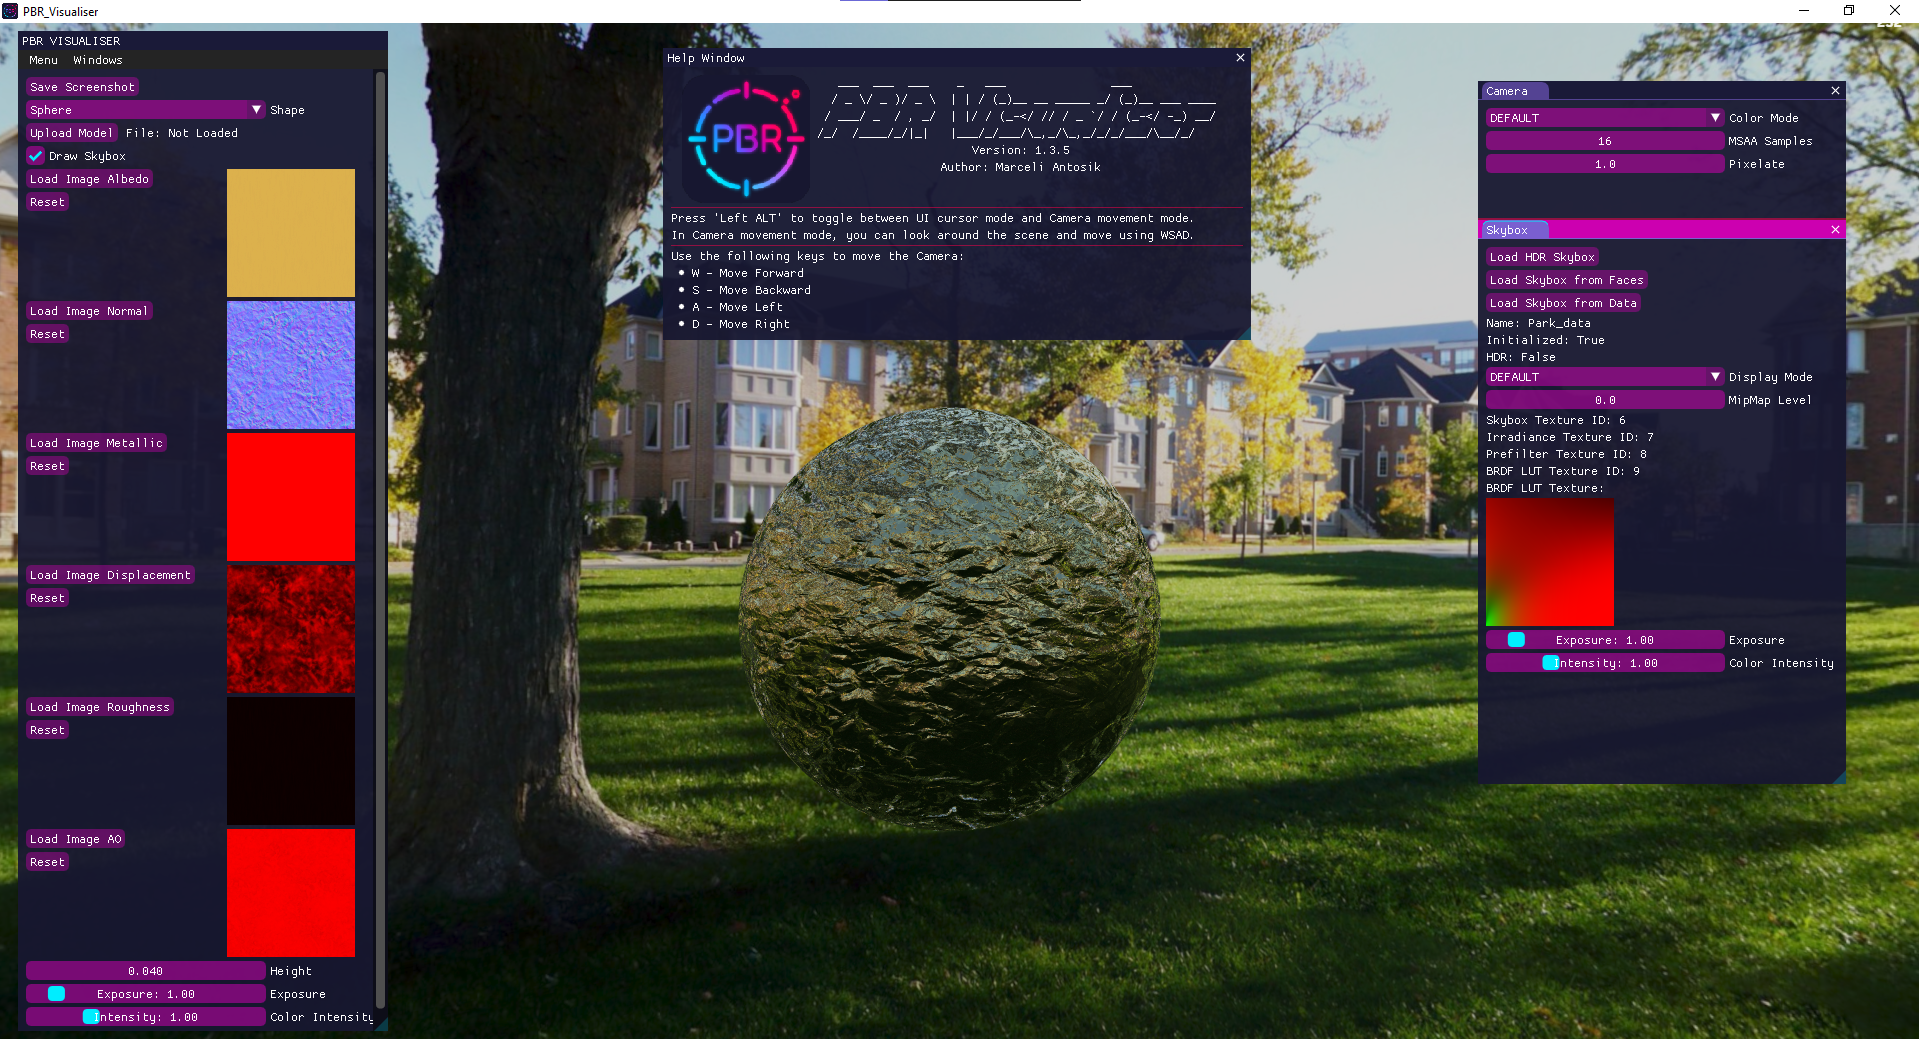
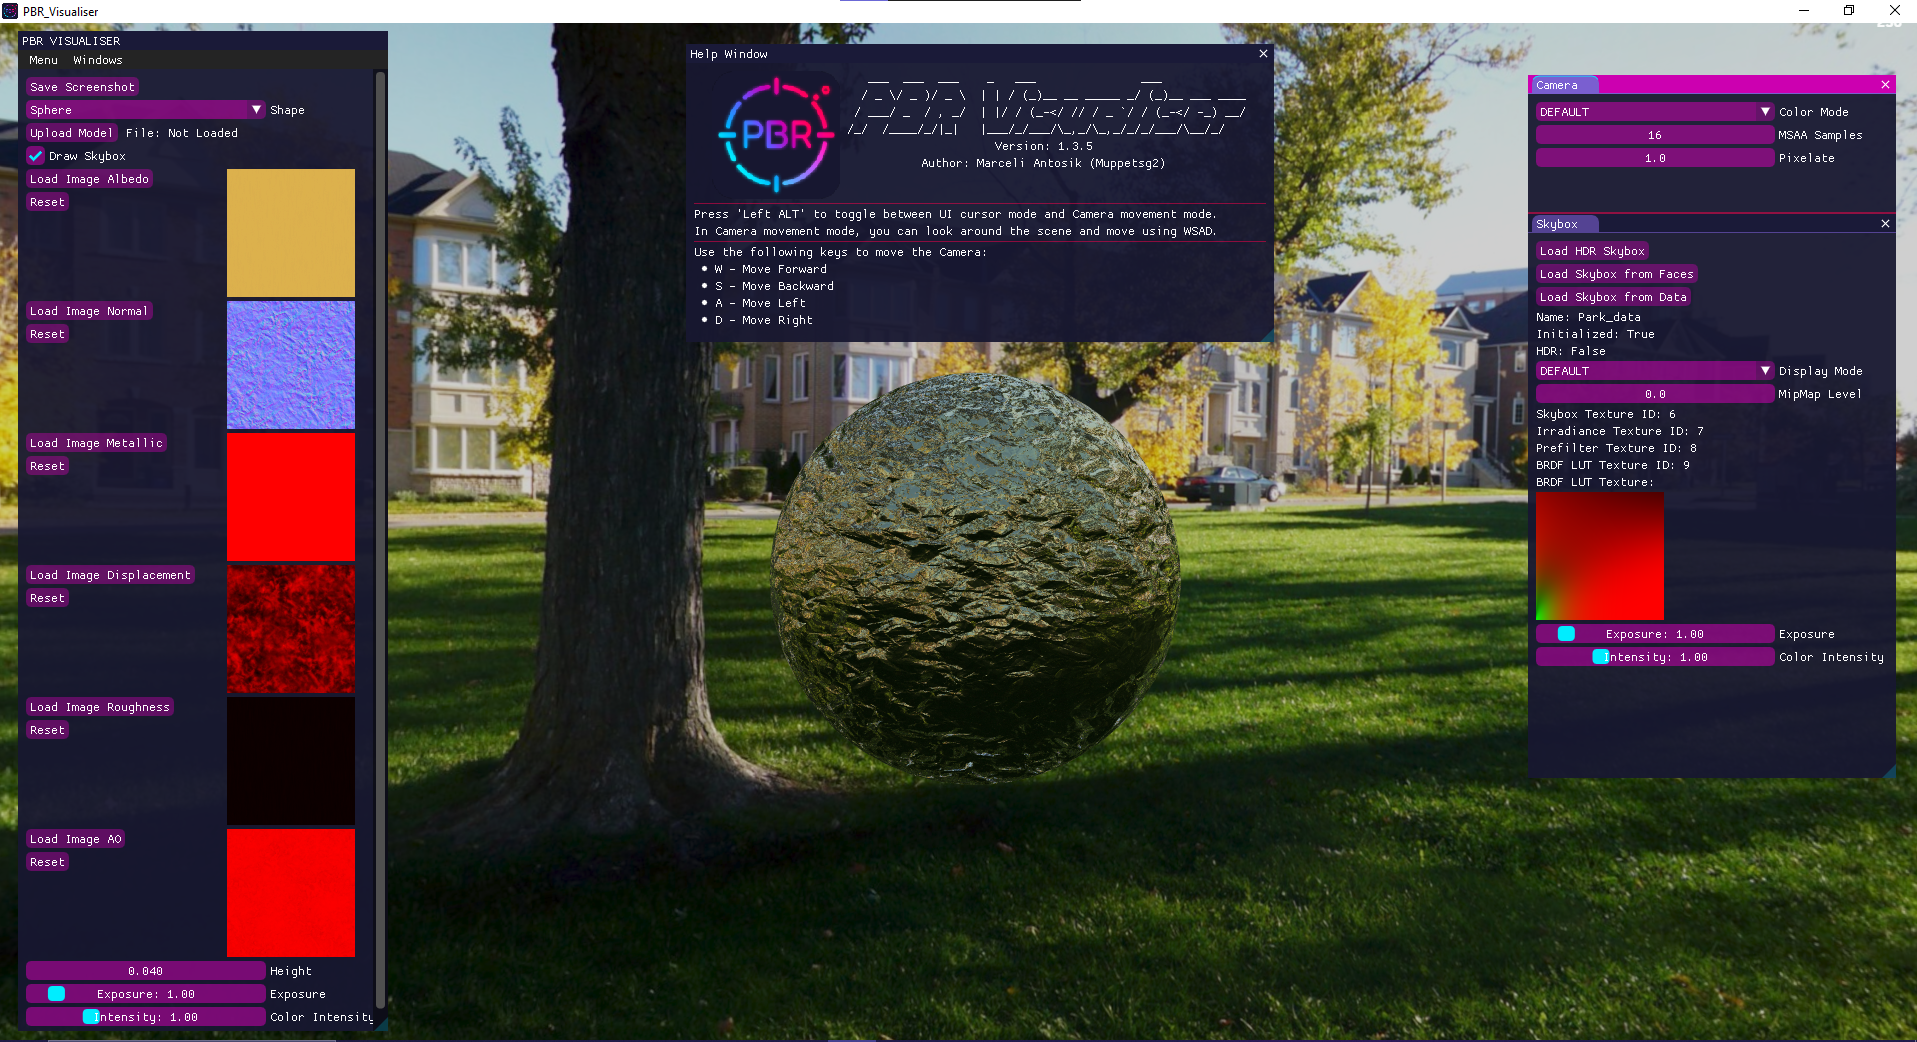
Readme update
- Updated Readme
- Updated name of author

diff --git a/src/main.cpp b/src/main.cpp
@@ -5,8 +5,8 @@
 //  /_/  /____/_/|_|   |___/_/___/\_,_/\_,_/_/_/___/\__/_/   
 //
 // Version: 1.3.5
-// Author: Marceli Antosik
-// Last Update: 03.03.2025
+// Author: Marceli Antosik (Muppetsg2)
+// Last Update: 04.03.2025
 
 extern "C" {
     _declspec(dllexport) unsigned long NvOptimusEnablement = 1;
@@ -507,7 +507,7 @@ void drawBanner()
     spdlog::info("   / ___/ _  / , _/  | |/ / (_-</ // / _ `/ / (_-</ -_) __/  ");
     spdlog::info("  /_/  /____/_/|_|   |___/_/___/\\_,_/\\_,_/_/_/___/\\__/_/  \n");
     spdlog::info("                       Version: {}", PBR_VISUALISER_VERSION_STR);
-    spdlog::info("                   Author: Marceli Antosik");
+    spdlog::info("             Author: Marceli Antosik (Muppetsg2)");
     spdlog::info("                   Last Update: {}", PBR_VISUALISER_LAST_UPDATE);
 
 #if WINDOW_APP && !_DEBUG
@@ -1155,7 +1155,7 @@ void drawHelp(bool* open)
     float textX = (windowSize.x - textWidth + iconSize) * 0.5f;
     ImGui::SetCursorPosX(textX);
     ImGui::Text(text.c_str());
-    text = std::string("Author: Marceli Antosik");
+    text = std::string("Author: Marceli Antosik (Muppetsg2)");
     textWidth = ImGui::CalcTextSize(text.c_str()).x;
     textX = (windowSize.x - textWidth + iconSize) * 0.5f;
     ImGui::SetCursorPosX(textX);

diff --git a/src/version.h b/src/version.h
@@ -4,7 +4,7 @@
 #define PBR_VISUALISER_VER_MINOR 3
 #define PBR_VISUALISER_VER_PATCH 5
 
-#define PBR_VISUALISER_LAST_UPDATE "03.03.2025"
+#define PBR_VISUALISER_LAST_UPDATE "04.03.2025"
 
 #define PBR_VISUALISER_TO_STRING_VERSION(major, minor, patch) std::format("{}.{}.{}", major, minor, patch)
 #define PBR_VISUALISER_TO_INT_VERSION(major, minor, patch) (major * 10000 + minor * 100 + patch)

diff --git a/README.md b/README.md
@@ -1,71 +1,79 @@
 <div align='center'>
    <img src="git_images/icon.png" alt="Logo" width="150" align="center"/>
-   <h1>
-   PBR Visualiser 1.3.5
-   </h1>
+   
+  <div id="toc">
+    <ul style="list-style: none;">
+      <summary>
+        <h1>PBR Visualiser 1.3.5</h1>
+      </summary>
+    </ul>
+  </div>
 </div>
 
 ## 📌 Description
-**PBR Visualiser** is an application for visualizing PBR materials in an OpenGL environment. The application has two configurations: **windowed (GUI)** and **console (CLI)**. In the GUI configuration, it supports rendering 3D models with different PBR materials and allows interaction with the camera and lighting settings. In the console configuration, it supports rendering a 2D image of a PBR material in different resolutions and lighting settings.
+**PBR Visualiser** is an application for visualizing **PBR materials** in an **OpenGL** environment. The application supports two configurations:
+<br/>
+🎨 **Windowed (GUI)** – for rendering **3D models** with interactive camera and lighting settings.
+<br/>
+🖥 **Console (CLI)** – for rendering **2D images** of PBR materials with customizable resolutions and lighting.
 
----
+## 📋 Table of Contents
+
+- [🌐 Acknowledgments](#-acknowledgments)
+- [📚 Used Libraries](#-used-libraries)
+- [🎨 Windowed Mode (GUI)](#-windowed-mode-gui)
+- [🖥 Console Mode (CLI)](#%EF%B8%8F-console-mode-cli)
+- [⚙ Requirements](#%EF%B8%8F-requirements)
+- [✨ Authors](#-authors)
+- [📜 License](#-license)
 
 ## 🌐 Acknowledgments
-- Sample materials used in the application have been sourced from ambient.cg.
-- Skyboxes used in the application are sourced from:
-    - polyhaven.com (All HDR files)
-    - www.humus.name (Park)
-    - learnopengl.com (Tutorial)
-
----
+- 📦 **Sample materials**: [ambient.cg](https://ambient.cg/)
+- 🌅 **Skyboxes**:
+    - HDR files: [polyhaven.com](https://polyhaven.com/)
+    - Park: [www.humus.name](http://www.humus.name/)
+    - Tutorial: [learnopengl.com](https://learnopengl.com/)
 
 ## 📚 Used Libraries
-- **OpenGL** - for rendering content
-- **ImGui** - for handling the user interface in the windowed configuration
-- **GLM** - for mathematical operations
-- **GLI** - for handling DDS files
-- **GLFW** - for handling input devices and the window
-- **spdlog** - for logging data to the console
-- **cgltf** - for loading GLTF and GLB objects
-- **tiny_obj_loader** - for loading OBJ objects
-- **stbi_image** - for loading HDR, JPG, and PNG images
-- **stbi_image_write** - for saving generated images
-- **tinyfiledialogs** - for handling dialog windows
+- 🎮 **OpenGL** - rendering engine
+- 🖱 **ImGui** - UI handling (GUI mode)
+- 📐 **GLM** - mathematical operations
+- 🖼 **GLI** - DDS file support
+- 🏞 **GLFW** - window & input handling
+- 📜 **spdlog** - logging
+- 📁 **cgltf** - loading GLTF/GLB objects
+- 📦 **tiny_obj_loader** - OBJ file support
+- 🖼 **stbi_image** - image loading (HDR, JPG, PNG)
+- 💾 **stbi_image_write** - image saving
+- 🗂 **tinyfiledialogs** - dialog windows
 
 ## 🎨 Windowed Mode (GUI)
-- **User Interface** based on **ImGui**  
-- **3D Shape Selection** from:
-  - 🔳 Cube
+- 🖥 **User Interface**: **ImGui**  
+- 🔳 **3D Shape Selection** from:
+  - 🟦 Cube
   - 🟡 Sphere
-  - 🔶 Plane (with orientation change option)
-- **3D Model Import** from files:
-  - OBJ
-  - GLTF / GLB
-- **PBR Texture Support**:
-  - 🎨 Albedo (RGB)
-  - 🌀 Normal (RGB)
-  - 🔩 Metalness (Grayscale)
-  - ⛰ Displacement (Grayscale)
-  - ✨ Roughness (Grayscale)
-  - 🌑 AO (Grayscale)
-- **Skybox Change**:
-  - HDR files
-  - 6 JPG/PNG files
-  - Pre-generated auxiliary data (for faster loading)
-- **Lighting Configuration**:
-  - Exposure and intensity of the skybox
-  - Exposure and intensity of the PBR material
-- **Camera Filters**:
+  - 🔶 Plane (adjustable orientation)
+- 📂 **3D Model Import**: OBJ, GLTF, GLB
+- 🖌 **PBR Texture Support**:
+  - 🎨 **Albedo** (RGB)
+  - 🌀 **Normal** (RGB)
+  - 🔩 **Metalness** (Grayscale)
+  - ⛰ **Displacement** (Grayscale)
+  - ✨ **Roughness** (Grayscale)
+  - 🌑 **AO** (Grayscale)
+- 🌅 **Skybox Selection**: HDR, JPG, PNG
+- 💡 **Lighting Configuration**: Exposure & intensity
+- 🎥 **Camera Filters**:
   - 🔷 Pixelation
   - ⚫ Grayscale
   - 🔀 Negative
   - ⚫🔀 Grayscale Negative
-- **MSAA** up to 16 samples
-- **Camera Controls**:
-  - 🖱 **Mouse** – rotate camera (after press `Left Alt`)
-  - ⌨ **WSAD** – move camera
-- **Save Screenshots of the view**
-- **Dialog Windows** handled via **tinyfiledialogs**
+- 🎮 **MSAA** (up to 16 samples)
+- 🎛 **Camera Controls**:
+  - 🖱 **Mouse** – rotate (after press `Left Alt`)
+  - ⌨ **WSAD** – move (after press `Left Alt`)
+- 📸 **Save Screenshots**
+- 🗂 **Dialog Windows** (via **tinyfiledialogs**)
 
 📷 **Screenshot of the application:**
 ![Screenshot_1](git_images/screenshot1.png)
@@ -73,68 +81,62 @@
 📷 **Screenshot taken in application:**
 ![Screenshot_2](git_images/screenshot2.png)
 
----
-
 ## 🖥 Console Mode (CLI)
 The application can run interactively (with sequential questions) or by passing parameters via the command line.
 
-#### ▶ Usage:
+### ▶ Usage:
 ```
 PBR_Visualiser.exe ([-h] | [-I] | [-v] [-f <albedo_path> <normal_path> ...] [-n <output_name>] [-d <directory_path>] [-p <position>] [-s <skybox>] [-r <resolution>] [-e <exposure_value>] [-i <color_intensity>])
 ```
 
-#### ⚙ Options:
-- `-h` → Displays help.
-- `-I` → Interactive mode (includes the provided parameters in the first iteration).
-- `-v` → Detailed information in the console.
-- `-f <image_path>` → Paths to a maximum of 6 PBR images.
-- `-n <output_name>` → Output file name (`PBR_Image.png`).
-- `-d <directory_path>` → Save folder (by default it saves to the executable file folder).
-- `-p <position>` → Plane position (`top`, `bottom`, `front`, `back`, `right`, `left`).
-- `-s <skybox>` → Choose a skybox (`park`, `hill`, `photostudio`, `bathroom`, `moonless_golf`, `snowy_field`, `venice_sunset`, `satara_night`, `golden_bay`).
-- `-r <resolution>` → Resolution (`r128`, `r256`, `r512`, `r1k`, `r2k`, `r4k`).
-- `-e <exposure_value>` → Exposure (`0 - 11`, domyślnie `1.0`).
-- `-i <color_intensity>` → Color intensity (`0 - 4`, domyślnie `1.0`).
+### ⚙ Options:
+- 🆘 `-h` → Displays **help**
+- 🏗 `-I` → **Interactive mode** (includes given parameters)
+- 📜 `-v` → **Verbose mode** (detailed logs)
+- 🖼 `-f <image_path>` → Paths to max **6 PBR textures**
+- 💾 `-n <output_name>` → **Output filename** (`PBR_Image.png`)
+- 📂 `-d <directory_path>` → **Save location**
+- 🏗 `-p <position>` → **Plane position** (`top`, `bottom`, `front`, `back`, `right`, `left`)
+- 🌅 `-s <skybox>` → **Skybox selection** (`park`, `hill`, `photostudio`, `bathroom`, `moonless_golf`, `snowy_field`, `venice_sunset`, `satara_night`, `golden_bay`)
+- 🖥 `-r <resolution>` → **Image resolution** (`r128`, `r256`, `r512`, `r1k`, `r2k`, `r4k`)
+- ☀ `-e <exposure_value>` → **Exposure** (`0 - 11`, default `1.0`)
+- 🎨 `-i <color_intensity>` → **Color intensity** (`0 - 4`, default `1.0`)
 
-#### 📝 Example execution:
+### 📝 Example Execution:
 ```
 PBR_Visualiser.exe -p right -f .\res\textures\Rock051_2K-PNG\Color.png .\res\textures\Rock051_2K-PNG\Normal.png .\res\textures\Rock051_2K-PNG\Metalness.png .\res\textures\Rock051_2K-PNG\Displacement.png .\res\textures\Rock051_2K-PNG\Roughness.png .\res\textures\Rock051_2K-PNG\AmbientOcclusion.png -n output -s golden_bay -r r128k -e 2.0 -i 1.0
 ```
 
-For more example use cases, you can refer to the `Examples.md` file, where additional command-line executions and scenarios are provided.
+For more examples, see [Examples.md](./Examples.md).
 
 📷 **Example of a generated image:**
-<br>
 <div align="center">
   <img src="git_images/output.png" alt="Output Image" width="300"/>
 </div>
 
----
-
 ## ⚙ Requirements
-✅ **For building:**
-- OpenSSL
-- CMake >= 3.21
-- Git
-- OpenGL >= 4.5
+✅ **For Building:**
+- 🔑 OpenSSL
+- 🛠 CMake >= 3.21
+- 🖥 Git
+- 🎮 OpenGL >= 4.5
 
-✅ **For running:**
-- OpenGL >= 4.5
-- MSVCP140.dll
-- VCRUNTIME140.dll
-- VCRUNTIME140_1.dll
-
----
-
-## 📜 License
-Project available under the **MIT** license.
-
----
+✅ **For Running:**
+- 🎮 OpenGL >= 4.5
+- 📜 MSVCP140.dll
+- 📜 VCRUNTIME140.dll
+- 📜 VCRUNTIME140_1.dll
 
 ## ✨ Authors
-👤 **Marceli Antosik**
+👤 **Marceli Antosik (Muppetsg2)**
 
 💡 If you have any questions or suggestions, feel free to contact me!
+
+
+## 📜 License
+📝 This project is **MIT Licensed**.
+
+See the [LICENSE](./LICENSE) file for more details.
 
 ---
 

diff --git a/Examples.md b/Examples.md
@@ -1,6 +1,6 @@
-# PBR Visualiser Console - Examples
+# 🖥 PBR Visualiser Console - Examples
 
-## 1. Generating a PBR image with 5 maps in the correct order
+## 1⃣ Generating a PBR image with 5 maps in the correct order
 ```bash
 PBR_Visualiser.exe -f
     .\res\textures\Metal049A_2K-PNG\Metal049A_2K-PNG_Color.png
@@ -10,7 +10,7 @@ PBR_Visualiser.exe -f
     .\res\textures\Metal049A_2K-PNG\Metal049A_2K-PNG_Roughness.png
 ```
 
-## 2. Generating a PBR image with 6 maps (missing Metalness)
+## 2⃣ Generating a PBR image with 6 maps (missing Metalness)
 ```bash
 PBR_Visualiser.exe -f
     .\res\textures\RoofingTiles013A_2K-PNG\RoofingTiles013A_2K-PNG_Color.png
@@ -21,7 +21,7 @@ PBR_Visualiser.exe -f
     .\res\textures\RoofingTiles013A_2K-PNG\RoofingTiles013A_2K-PNG_AmbientOcclusion.png
 ```
 
-## 3. Generating a PBR image with additional console information
+## 3⃣ Generating a PBR image with additional console information
 ```bash
 PBR_Visualiser.exe -v -f
     .\res\textures\Rock051_2K-PNG\Rock051_2K-PNG_Color.png
@@ -31,7 +31,7 @@ PBR_Visualiser.exe -v -f
     .\res\textures\Rock051_2K-PNG\Rock051_2K-PNG_Roughness.png
 ```
 
-## 4. Generating a PBR image with the plane position set to `right`
+## 4⃣ Generating a PBR image with the plane position set to `right`
 ```bash
 PBR_Visualiser.exe -v -p right -f
     .\res\textures\Rock051_2K-PNG\Rock051_2K-PNG_Color.png
@@ -41,14 +41,14 @@ PBR_Visualiser.exe -v -p right -f
     .\res\textures\Rock051_2K-PNG\Rock051_2K-PNG_Roughness.png
 ```
 
-## 5. Generating a PBR image with additional parameters
+## 5⃣ Generating a PBR image with additional parameters
 **Options:**
-- File name: `Name.png`
-- Save folder: `res`
-- Skybox: `photostudio`
-- Resolution: `1024x1024`
-- Exposure: `2.0`
-- Intensity: `1.0`
+- 🖼 File Name: `Name.png`
+- 📂 Save Folder: `res`
+- 🌅 Skybox: `photostudio`
+- 🖥 Resolution: `1024x1024`
+- ☀ Exposure: `2.0`
+- 🎨 Color Intensity: `1.0`
 ```bash
 PBR_Visualiser.exe -v -p right -f
     .\res\textures\Rock051_2K-PNG\Rock051_2K-PNG_Color.png
@@ -59,12 +59,12 @@ PBR_Visualiser.exe -v -p right -f
     -n Name -d .\res -s photostudio -r r1k -e 2.0 -i 1.0
 ```
 
-## 6. Start program in interactive mode
+## 6⃣ Start program in interactive mode
 ```bash
 PBR_Visualiser.exe -I
 ```
 
-## 7. Generating a PBR image in interactive mode
+## 7⃣ Generating a PBR image in interactive mode
 ```bash
 PBR_Visualiser.exe -v -I -p right -f
     .\res\textures\Rock051_2K-PNG\Rock051_2K-PNG_Color.png
@@ -74,7 +74,7 @@ PBR_Visualiser.exe -v -I -p right -f
     .\res\textures\Rock051_2K-PNG\Rock051_2K-PNG_Roughness.png
 ```
 
-## 8. Generating a PBR image in interactive mode with 4 maps and the name `Hello.png`
+## 8⃣ Generating a PBR image in interactive mode with 4 maps and the name `Hello.png`
 ```bash
 PBR_Visualiser.exe -v -I -p right -f
     .\res\textures\Rock051_2K-PNG\Rock051_2K-PNG_Color.png
@@ -84,7 +84,7 @@ PBR_Visualiser.exe -v -I -p right -f
     -n Hello
 ```
 
-## 9. Generating a PBR image of a metallic material in interactive mode
+## 9⃣ Generating a PBR image of a metallic material in interactive mode
 ```bash
 PBR_Visualiser.exe -v -p right -I -f
     .\res\textures\Metal049A_2K-PNG\Metal049A_2K-PNG_Color.png
